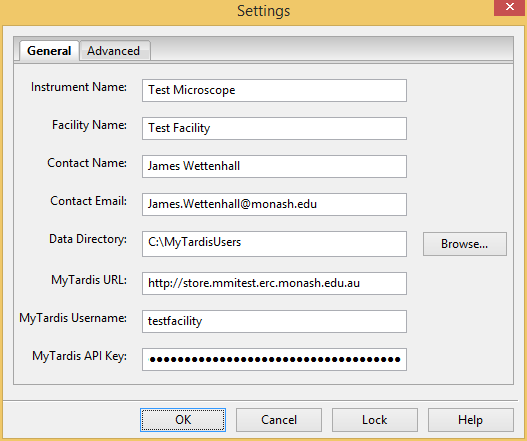
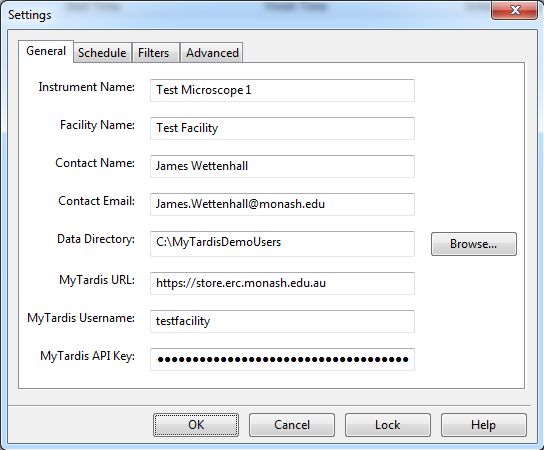
Updating docs for Settings dialog (scheduling and filtering).

diff --git a/docs/source/settings.rst b/docs/source/settings.rst
@@ -68,6 +68,70 @@ General
   .. image:: images/DownloadApiKey.png
 
 
+.. _settings-dialog-schedule:
+
+Schedule
+^^^^^^^^
+
+  .. image:: images/SettingsSchedule.PNG
+
+**Schedule type - On Startup**
+    Run the folder scans and uploads automatically when MyData is launched.
+
+**Schedule type - On Settings Saved**
+    Run the folder scans and uploads automatically afte the user clicks OK
+    on the Settings dialog.
+
+**Schedule type - Manually**
+    Only run the folder scans and uploads in response to user interaction -
+    either by clicking the Refresh icon on the toolbar, or by clicking the
+    "MyTardis Sync" menu item in the system tray menu.
+
+**Schedule type - Once**
+    Run the folder scans and uploads once, on the date specified by the Date
+    field and at the time specified by the Time field.
+
+**Schedule type - Daily**
+    Run the folder scans and uploads every day, at the time specified by the
+    Time field.
+
+**Schedule type - Weekly**
+    Run the folder scans and uploads every week on the day(s) specified by the
+    weekday checkboxes, at the time specified by the Time field.
+
+**Schedule type - Timer**
+    Run the folder scans and uploads repeatedly with an interval specified by
+    the "Timer (minutes)" field between the hours of "From" and "To", every day.
+
+
+.. _settings-dialog-filters:
+
+Filters
+^^^^^^^
+
+  .. image:: images/SettingsFilters.PNG
+
+**Username/Email/User Group folder name contains**
+    Only scan user folders (or user group folders) whose username (or email
+    or user group) contains the string provided.  The actual text of this
+    setting will change, depending on the Folder Structure specified in the
+    Advanced tab.
+
+**Dataset folder name contains**
+    Only scan dataset folders whose folder name contains the string provided.
+
+**Experiment folder name contains**
+    Only scan experiment folders whose folder name contains the string
+    provided.  This field will be hidden unless the Folder Structure
+    specified in the Advanced tab includes an Experiment folder.
+
+**Ignore datasets older than**
+  MyData is designed to be used for uploading recent data.  If it is configured
+  to use an existing data directory containing a large backlog of old data, it
+  is advisable to instruct MyData to ignore old datasets so that it focus on
+  uploading the recent datasets.
+
+
 .. _settings-dialog-advanced:
 
 Advanced
@@ -158,13 +222,11 @@ Advanced
     (e.g. "D:\\Data\\SmithLab\\Nikon Microscope #1\\John Smith\\Dataset1")
     will be mapped to MyTardis datasets.
 
-**Check For Missing Folders**
-  This option provides extra validation of the folder structure.  For example,
-  if you choose a folder structure of "Username / Dataset" but you don't have
-  any Dataset folders, then when this checkbox is ticked, MyData's settings
-  validation will stop and display an error as shown below.
-
-  .. image:: images/CheckForMissingFolders.png
+**Validate Folder Structure**
+  When this is checked, MyData will ensure that the folders provided appear
+  to be in the correct structure, and it will count the total number of
+  datasets.  This can be disabled if you have a large number of dataset
+  folders and slow disk access.
 
 **Experiment (Dataset Grouping)**
   Defines how datasets will be grouped together into experiments in MyTardis.
@@ -179,17 +241,17 @@ Advanced
   The actual group name in MyTardis (e.g. "TestFacility-SmithLab")
   may have a prefix (e.g. "TestFacility-") prepended to it.
 
-**Ignore datasets older than**
-  MyData is designed to be used for uploading recent data.  If it is configured
-  to use an existing data directory containing a large backlog of old data, it
-  is advisable to instruct MyData to ignore old datasets so that it focus on
-  uploading the recent datasets.
-
 **Max # of upload threads**
   The maximum number of uploads to perform concurrently.  If greater than one,
   MyData will spawn multiple scp (secure copy) processes which (for large
   datafiles) may impact significantly on CPU usage of your system, which could
   affect other applications running alongside MyData.  The default value is 5.
+
+**Start automatically on login**
+    On Windows, a shortcut to MyData will be placed in the current user's Startup
+    folder.  The exact location varies, but on my machine it is
+    "C:\\Users\\wettenhj\\AppData\\Roaming\\Microsoft\\Windows\\Start Menu\\Programs\\Startup".
+    On Mac OS X, a login item will could be created in the user's ~/Library/Preferences/com.apple.loginitems.plist
 
 
 Locking and Unlocking MyData's Settings
